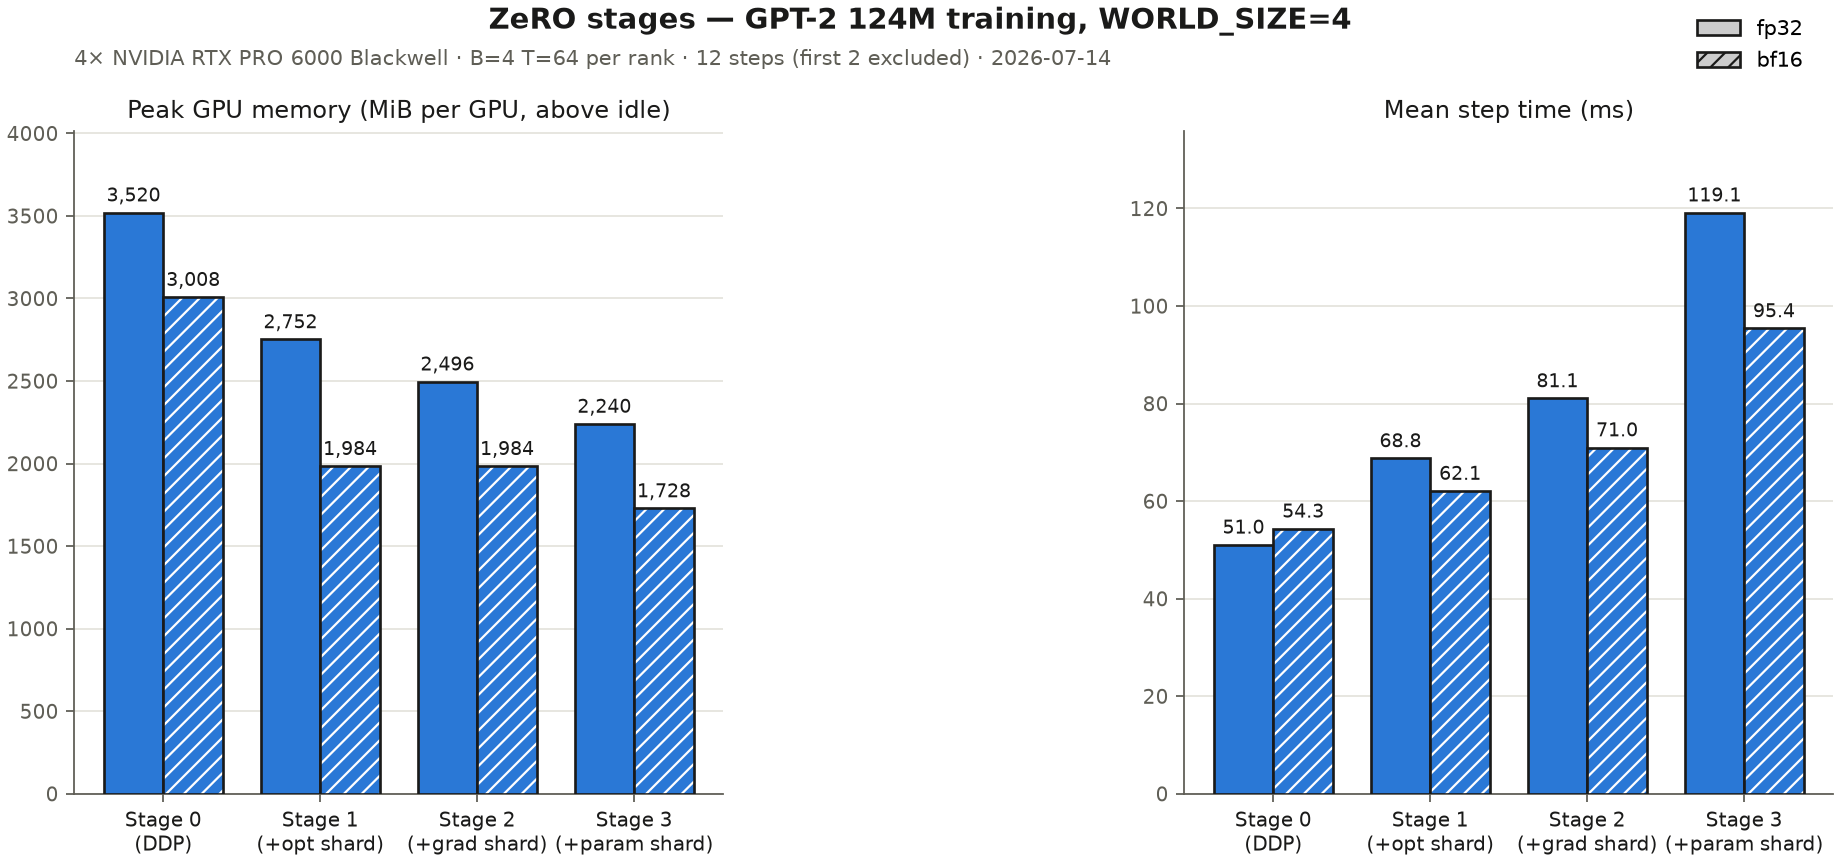
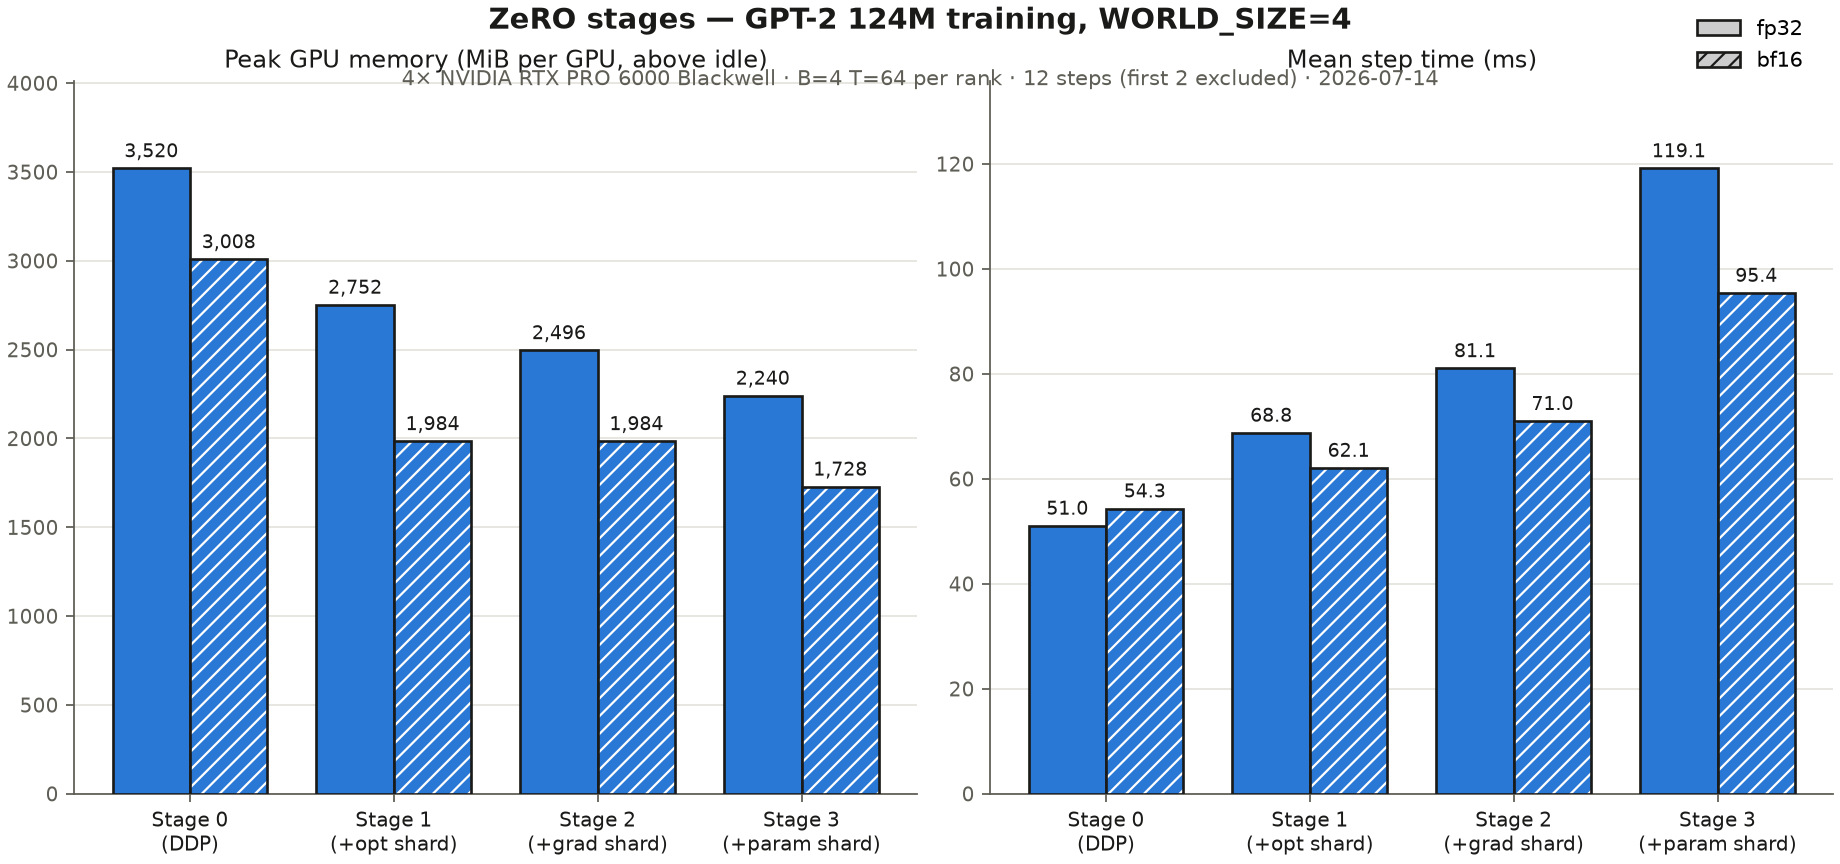
benchmark-zero: center chart subtitle; make --plot GPU name portable
The ZeRO chart subtitle was pinned to the left axes (ha="left" at x=0.0),
so it started at the far-left instead of centering under the figure title.
Draw it with fig.text at x=0.5, ha="center" so it centers on the whole
figure like the suptitle.

Also fix the --plot re-render path off-box: the GPU name came only from live
nvidia-smi, so re-rendering on a machine without an NVIDIA GPU wrote
"unknown-gpu" into the subtitle and the filename. Resolve the name from the
JSON first, then the token embedded in the JSON filename, then the live
machine, and persist the GPU name into new run JSONs. Re-rendered the W4
chart from its existing JSON (numbers unchanged).

diff --git a/scripts/benchmark_zero.py b/scripts/benchmark_zero.py
@@ -250,20 +250,48 @@ _STAGE_LABELS = {
 }
 
 
-def _gpu_name_token():
-    """Short sanitized GPU product token for the figure filename."""
+def _gpu_name_raw():
+    """Full GPU product name from the live machine, or '' if unavailable."""
     try:
         out = subprocess.check_output(
             ["nvidia-smi", "--query-gpu=name", "--format=csv,noheader"],
             stderr=subprocess.DEVNULL,
             text=True,
         )
-        name = out.strip().splitlines()[0]
-        # "NVIDIA RTX PRO 6000 Blackwell Max-Q Workstation Edition" is too
-        # long for a filename; the first five words identify the product.
-        return "-".join(name.split()[:5])
+        return out.strip().splitlines()[0]
     except Exception:
-        return "unknown-gpu"
+        return ""
+
+
+def _gpu_token_from_name(name):
+    """Short sanitized GPU product token for the figure filename."""
+    # "NVIDIA RTX PRO 6000 Blackwell Max-Q Workstation Edition" is too long
+    # for a filename; the first five words identify the product.
+    return "-".join(name.split()[:5]) if name else "unknown-gpu"
+
+
+def _gpu_name_token():
+    """Live GPU token (used on the run side)."""
+    return _gpu_token_from_name(_gpu_name_raw())
+
+
+def _gpu_token_for_doc(doc, json_path):
+    """Resolve the GPU token when re-rendering, without the live machine.
+
+    Prefers the name persisted in the JSON, then the token embedded in the
+    JSON filename, and only then falls back to querying the live machine. This
+    is what makes ``--plot`` portable to a box that did not run the benchmark.
+    """
+    name = doc.get("gpu")
+    if name:
+        return _gpu_token_from_name(name)
+    if json_path:
+        stem = os.path.splitext(os.path.basename(json_path))[0]
+        parts = stem.split("_")
+        # stem tail is ..._{gpu_token}_{host}; host carries no underscore.
+        if len(parts) >= 2 and parts[-1] == doc.get("host"):
+            return parts[-2]
+    return _gpu_name_token()
 
 
 def _grouped_bars(ax, stages, fp32_vals, bf16_vals, fmt):
@@ -392,7 +420,8 @@ def plot(json_path, out_path=None):
     world = doc["world_size"]
     date = doc["generated"][:10]
     # One rank per GPU: name what the ranks ran on, not the box's GPU count.
-    gpu_product = _gpu_name_token().replace("-", " ")
+    gpu_token = _gpu_token_for_doc(doc, json_path)
+    gpu_product = gpu_token.replace("-", " ")
     subtitle = (
         f"{world}× {gpu_product} · B={flags['b']} T={flags['t']} per rank"
         f" · {flags['steps']} steps (first 2 excluded) · {date}"
@@ -405,14 +434,17 @@ def plot(json_path, out_path=None):
         fontsize=13,
         fontweight="semibold",
     )
-    ax_mem.text(
-        0.0,
-        1.10,
+    # Center the subtitle on the whole figure (matching the suptitle) rather
+    # than pinning it to the left axes.
+    fig.text(
+        0.5,
+        0.92,
         subtitle,
-        transform=ax_mem.transAxes,
+        transform=fig.transFigure,
         color=TEXT_GRAY,
         fontsize=9.5,
-        ha="left",
+        ha="center",
+        va="top",
     )
     fig.legend(
         handles=[
@@ -437,7 +469,7 @@ def plot(json_path, out_path=None):
         hhmm = doc["generated"][11:16].replace(":", "")
         stem = (
             f"benchmark_zero_w{world}_b{flags['b']}_t{flags['t']}"
-            f"_{date}_{hhmm}_{_gpu_name_token()}_{doc['host']}"
+            f"_{date}_{hhmm}_{gpu_token}_{doc['host']}"
         )
         out_path = os.path.join(root, "figures", f"{stem}.png")
     os.makedirs(os.path.dirname(out_path), exist_ok=True)
@@ -543,6 +575,7 @@ def main():
     doc = {
         "generated": datetime.datetime.now().isoformat(timespec="seconds"),
         "host": host,
+        "gpu": _gpu_name_raw() or None,
         "gpu_count": len(_query_gpu_mem_mib()),
         "world_size": args.world_size,
         "flags": {"b": args.b, "t": args.t, "d": args.d, "steps": args.steps},